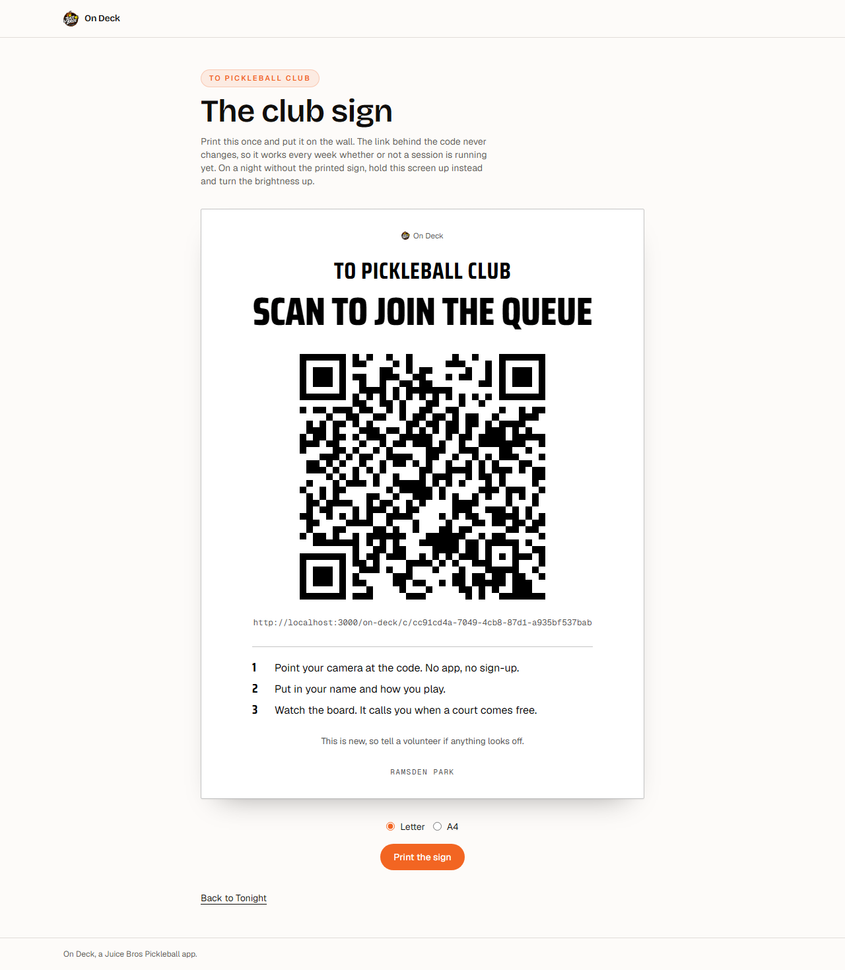
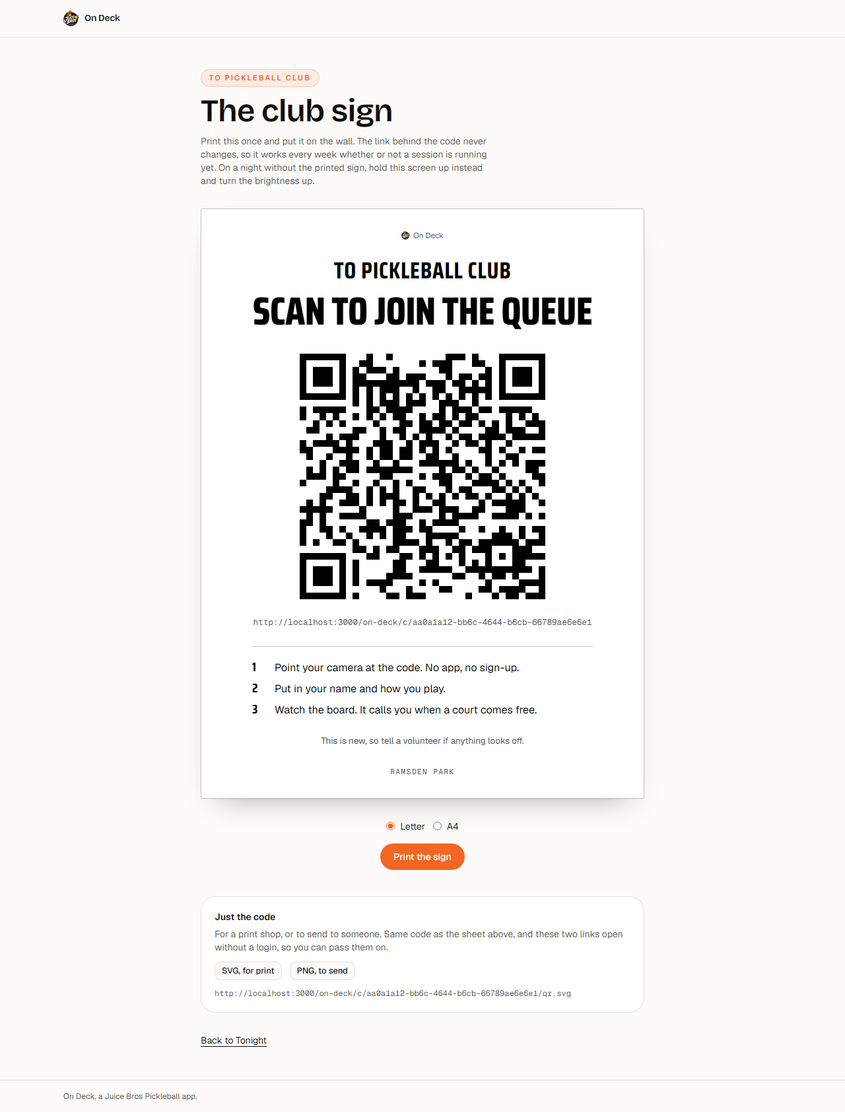
On Deck: serve the Club QR as a file, at a URL (#463)
The sign built in the previous commit is a whole printed page behind an
Organizer login, which is no help to the two things people actually ask for:
artwork a print shop can work from, and a picture to send someone. The code
existed only as inline SVG in four pages' HTML, so there was nothing to link.

Two open routes now serve it, sitting under the Club link they encode:

  /on-deck/c/<clubId>/qr.svg   vector, for a print shop
  /on-deck/c/<clubId>/qr.png   1024px, to paste into a message

Open on purpose, and they give away nothing the sign on the wall does not —
they encode `clubQrPath(clubId)`, a link whose whole job is to be
photographed by strangers, and they read no database. Like the `clubQrPath`
page itself, an unknown Club is not an error; the id only has to be shaped
like one, so the endpoint cannot be turned into a generator of QR codes for
arbitrary text. Cached hard, because one Club has one link for its life.

`clubJoinQrImage` is deliberately not `clubJoinQr`: the latter injects
`aria-hidden` for the labelled wrapper its on-page callers provide, which is
wrong in a file that is the whole document. The quiet zone differs for the
same reason — a page supplies it with a padded white card, a file has to
carry `margin: 4` itself or the code stops scanning once someone drops it on
a poster next to something else. PNG comes from `qrcode` rather than by
rasterising the SVG, which keeps this off `sharp` — a devDependency here,
and so absent at runtime.
[…]

Changed region(s): [[0.0615, 0.0619, 0.7385, 0.9897], [0.0615, 0.0, 0.1538, 0.0309]]

diff --git a/src/app/on-deck/home/qr/page.tsx b/src/app/on-deck/home/qr/page.tsx
@@ -4,12 +4,19 @@ import { redirect } from "next/navigation";
 
 import { pageMetadata } from "@/lib/metadata";
 import { PageHeading } from "@/components/typography/page-heading";
+import { buttonVariants } from "@/components/ui/button";
+import { cn } from "@/lib/utils";
 import { verifyOrganizer } from "@/lib/on-deck/dal";
 import { createClient } from "@/lib/on-deck/supabase/server";
 import { getOwnedClub } from "@/lib/on-deck/clubs";
 import { clubJoinQr } from "@/lib/on-deck/qr";
+import { onDeckAbsoluteUrl } from "@/lib/on-deck/request-origin";
 import { ClubQrSign } from "@/components/on-deck/club-qr-sign";
-import { ON_DECK_HOME_PATH, ON_DECK_QR_DISPLAY_PATH } from "@/lib/on-deck/routes";
+import {
+  clubQrImagePath,
+  ON_DECK_HOME_PATH,
+  ON_DECK_QR_DISPLAY_PATH,
+} from "@/lib/on-deck/routes";
 
 export const metadata: Metadata = {
   ...pageMetadata({
@@ -37,6 +44,9 @@ export default async function OnDeckQrDisplayPage() {
   }
 
   const { url, svg } = await clubJoinQr(club.id);
+  const svgPath = clubQrImagePath(club.id, "svg");
+  const pngPath = clubQrImagePath(club.id, "png");
+  const svgUrl = await onDeckAbsoluteUrl(svgPath);
 
   return (
     <div className="flex w-full flex-1 flex-col">
@@ -61,6 +71,37 @@ export default async function OnDeckQrDisplayPage() {
               url={url}
               svg={svg}
             />
+          </div>
+
+          {/* The code on its own, at a URL. The sheet above is behind an
+              Organizer login and prints as a whole page, which is no help to
+              a print shop wanting artwork or to a group chat wanting a
+              picture. Both links below are open, like the link the code
+              carries. */}
+          <div className="od-sign-controls mt-10 rounded-2xl border bg-card p-5">
+            <h2 className="text-sm font-semibold">Just the code</h2>
+            <p className="mt-1.5 text-sm text-muted-foreground">
+              For a print shop, or to send to someone. Same code as the sheet
+              above, and these two links open without a login, so you can pass
+              them on.
+            </p>
+            <div className="mt-3 flex flex-wrap items-center gap-3">
+              <a
+                href={svgPath}
+                className={cn(buttonVariants({ variant: "outline", size: "sm" }))}
+              >
+                SVG, for print
+              </a>
+              <a
+                href={pngPath}
+                className={cn(buttonVariants({ variant: "outline", size: "sm" }))}
+              >
+                PNG, to send
+              </a>
+            </div>
+            <p className="mt-3 break-all font-mono text-xs text-muted-foreground">
+              {svgUrl}
+            </p>
           </div>
 
           <div className="od-sign-controls">

diff --git a/src/lib/on-deck/qr.ts b/src/lib/on-deck/qr.ts
@@ -32,3 +32,59 @@ export async function clubJoinQr(clubId: string): Promise<ClubJoinQr> {
   // it in an element that *is* labelled — this hides the duplicate.
   return { url, svg: svg.replace("<svg", '<svg aria-hidden="true"') };
 }
+
+/** A downloadable rendering of the Club QR: the bytes plus how to serve them. */
+export type ClubJoinQrImage = {
+  url: string;
+  body: string | Buffer;
+  contentType: string;
+};
+
+export type ClubJoinQrFormat = "svg" | "png";
+
+/**
+ * The Club QR as a standalone file, for the two things an inline `<svg>` on a
+ * page cannot do: hand a print shop something to work from, and paste the
+ * code into a message. Served by the routes under `/on-deck/c/[clubId]/`.
+ *
+ * Deliberately *not* `clubJoinQr`: that one injects `aria-hidden` for the
+ * labelled wrapper every on-page caller puts around it, which is exactly
+ * wrong in a file that has no wrapper and is the whole document.
+ *
+ * The quiet zone is the other difference. On a page the padded white card
+ * around the code supplies it; a file has nothing around it, so `margin: 4`
+ * carries the four-module quiet zone the QR spec asks for. Without it a code
+ * dropped straight onto a poster butts against whatever it is next to and
+ * stops scanning.
+ *
+ * PNG comes from `qrcode` directly rather than by rasterising the SVG: it
+ * keeps this off `sharp`, which is a devDependency here and so is not there
+ * at runtime.
+ */
+export async function clubJoinQrImage(
+  clubId: string,
+  format: ClubJoinQrFormat,
+): Promise<ClubJoinQrImage> {
+  const url = await onDeckAbsoluteUrl(clubQrPath(clubId));
+  const options = {
+    errorCorrectionLevel: "M" as const,
+    margin: 4,
+    color: { dark: "#000000", light: "#ffffff" },
+  };
+
+  if (format === "png") {
+    return {
+      url,
+      // 1024px square: large enough that a print shop scaling it to a poster
+      // has pixels to work with, small enough to send in a message.
+      body: await QRCode.toBuffer(url, { ...options, type: "png", width: 1024 }),
+      contentType: "image/png",
+    };
+  }
+
+  return {
+    url,
+    body: await QRCode.toString(url, { ...options, type: "svg" }),
+    contentType: "image/svg+xml",
+  };
+}

diff --git a/src/lib/on-deck/qr-response.ts b/src/lib/on-deck/qr-response.ts
@@ -1,0 +1,42 @@
+import "server-only";
+
+import { clubJoinQrImage, type ClubJoinQrFormat } from "./qr.ts";
+
+/** A club id has to look like the uuid the table issues before it is drawn. */
+const UUID =
+  /^[0-9a-f]{8}-[0-9a-f]{4}-[0-9a-f]{4}-[0-9a-f]{4}-[0-9a-f]{12}$/i;
+
+/**
+ * The shared body of the two Club QR file routes (issue #463).
+ *
+ * Open on purpose, and it gives away nothing that the sign on the wall does
+ * not: it encodes `clubQrPath(clubId)`, a link whose entire job is to be
+ * photographed by strangers, and it reads no database. The `clubQrPath` page
+ * itself already answers for an unknown Club with "nothing running right
+ * now", so this does not look one up either — it only insists the id is
+ * shaped like a real one, so the endpoint cannot be turned into a generator
+ * of QR codes for arbitrary text.
+ *
+ * Cached hard because the answer never changes: one Club, one link, for the
+ * life of the Club. That is the same premise the printed sign rests on.
+ */
+export async function clubQrImageResponse(
+  clubId: string,
+  format: ClubJoinQrFormat,
+): Promise<Response> {
+  if (!UUID.test(clubId)) {
+    return new Response("Not found", { status: 404 });
+  }
+
+  const { body, contentType } = await clubJoinQrImage(clubId, format);
+
+  return new Response(body as BodyInit, {
+    headers: {
+      "Content-Type": contentType,
+      "Cache-Control": "public, max-age=3600, s-maxage=86400, immutable",
+      // Names the file something recognisable in a downloads folder without
+      // forcing a download — opening it in a tab is the common case.
+      "Content-Disposition": `inline; filename="on-deck-club-qr.${format}"`,
+    },
+  });
+}

diff --git a/src/lib/on-deck/routes.test.ts b/src/lib/on-deck/routes.test.ts
@@ -7,6 +7,7 @@ import {
   ON_DECK_HOME_PATH,
   ON_DECK_NEW_SESSION_PATH,
   ON_DECK_QR_DISPLAY_PATH,
+  clubQrImagePath,
   ON_DECK_SETTINGS_PATH,
   ON_DECK_SIGN_IN_PATH,
   clubQrPath,
@@ -34,6 +35,16 @@ test("only the Organizer subtree requires a session", () => {
   assert.equal(requiresOrganizerSession("/on-deck"), false);
   assert.equal(requiresOrganizerSession("/on-deck/sign-in"), false);
   assert.equal(requiresOrganizerSession("/on-deck/c/abc"), false);
+  // The Club QR as a file stays open with the path it encodes — a print
+  // shop has no account, and the code is meant to be photographed anyway.
+  assert.equal(
+    requiresOrganizerSession(clubQrImagePath("abc", "svg")),
+    false,
+  );
+  assert.equal(
+    requiresOrganizerSession(clubQrImagePath("abc", "png")),
+    false,
+  );
   assert.equal(requiresOrganizerSession("/on-deck/session/abc"), false);
   assert.equal(requiresOrganizerSession("/booking-buddy/friends"), false);
 });
@@ -97,6 +108,14 @@ test("path builders produce the stable shapes the proxy and pages share", () => 
   );
   assert.equal(ON_DECK_NEW_SESSION_PATH, "/on-deck/home/sessions/new");
   assert.equal(ON_DECK_QR_DISPLAY_PATH, "/on-deck/home/qr");
+  assert.equal(
+    clubQrImagePath("club-1", "svg"),
+    "/on-deck/c/club-1/qr.svg",
+  );
+  assert.equal(
+    clubQrImagePath("club-1", "png"),
+    "/on-deck/c/club-1/qr.png",
+  );
   assert.equal(ON_DECK_SETTINGS_PATH, "/on-deck/home/settings");
   assert.equal(ON_DECK_DEV_PATH, "/on-deck/dev");
   assert.equal(ON_DECK_DEV_ENTER_PATH, "/on-deck/dev/enter");

diff --git a/e2e/on-deck.spec.ts b/e2e/on-deck.spec.ts
@@ -367,3 +367,33 @@ test("the Club QR sign prints as a sheet, with the chrome and the controls off t
   await page.getByRole("radio", { name: "A4" }).check();
   await expect(sheet).toHaveAttribute("data-paper", "a4");
 });
+
+/**
+ * The Club QR as a file (issue #463). The point of these two routes is that
+ * they need no account — a print shop has none, and the link the code carries
+ * is meant to be photographed off a wall by strangers. So the test that
+ * matters is a bare request with no session cookie at all.
+ */
+test("the Club QR is downloadable as SVG and PNG, with no account", async ({
+  request,
+}) => {
+  const svg = await request.get(`/on-deck/c/${clubId}/qr.svg`);
+  expect(svg.status()).toBe(200);
+  expect(svg.headers()["content-type"]).toContain("image/svg+xml");
+  const markup = await svg.text();
+  expect(markup).toContain("<svg");
+  // It encodes the stable Club link, not a per-Session one.
+  expect(markup).not.toContain("aria-hidden");
+
+  const png = await request.get(`/on-deck/c/${clubId}/qr.png`);
+  expect(png.status()).toBe(200);
+  expect(png.headers()["content-type"]).toContain("image/png");
+  const bytes = await png.body();
+  // PNG magic number, so this is a real image and not an error page.
+  expect(bytes.subarray(0, 4).toString("hex")).toBe("89504e47");
+  expect(bytes.byteLength).toBeGreaterThan(1000);
+
+  // Not a generator for arbitrary text: an id that isn't shaped like one 404s.
+  const junk = await request.get("/on-deck/c/not-a-club/qr.svg");
+  expect(junk.status()).toBe(404);
+});

diff --git a/src/lib/on-deck/routes.ts b/src/lib/on-deck/routes.ts
@@ -56,6 +56,19 @@ export function clubQrPath(clubId: string): string {
   return `${ON_DECK_ROOT}/c/${clubId}`;
 }
 
+/**
+ * The Club QR as a file (issue #463). Same stable link as `clubQrPath`, drawn
+ * as an image you can download, send, or hand to a print shop — the one thing
+ * an inline `<svg>` on a gated page cannot be. Open, like the path it
+ * encodes: the code is meant to be photographed off a wall.
+ */
+export function clubQrImagePath(
+  clubId: string,
+  format: "svg" | "png",
+): string {
+  return `${clubQrPath(clubId)}/qr.${format}`;
+}
+
 export function sessionPath(sessionId: string): string {
   return `${ON_DECK_ROOT}/session/${sessionId}`;
 }

diff --git a/src/app/on-deck/c/[clubId]/qr.svg/route.ts b/src/app/on-deck/c/[clubId]/qr.svg/route.ts
@@ -1,0 +1,12 @@
+import { clubQrImageResponse } from "@/lib/on-deck/qr-response";
+
+export const runtime = "nodejs";
+
+/** The Club QR as SVG — the one to give a print shop, since it has no size. */
+export async function GET(
+  _request: Request,
+  { params }: { params: Promise<{ clubId: string }> },
+) {
+  const { clubId } = await params;
+  return clubQrImageResponse(clubId, "svg");
+}

diff --git a/src/app/on-deck/c/[clubId]/qr.png/route.ts b/src/app/on-deck/c/[clubId]/qr.png/route.ts
@@ -1,0 +1,12 @@
+import { clubQrImageResponse } from "@/lib/on-deck/qr-response";
+
+export const runtime = "nodejs";
+
+/** The Club QR as PNG — the one to paste into a message or a slide. */
+export async function GET(
+  _request: Request,
+  { params }: { params: Promise<{ clubId: string }> },
+) {
+  const { clubId } = await params;
+  return clubQrImageResponse(clubId, "png");
+}
